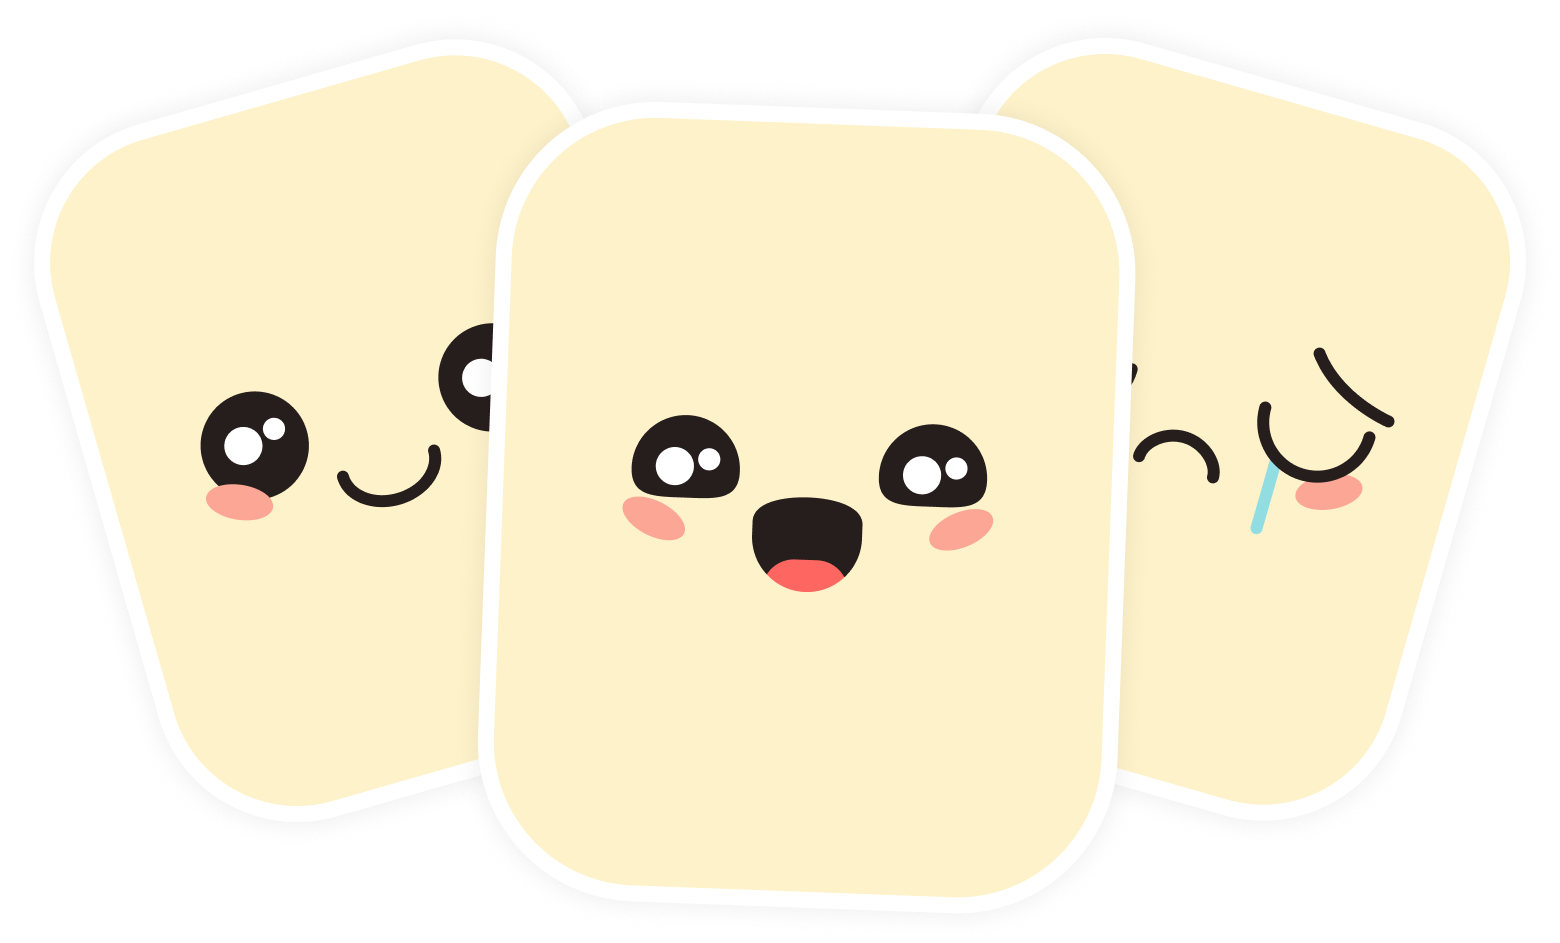
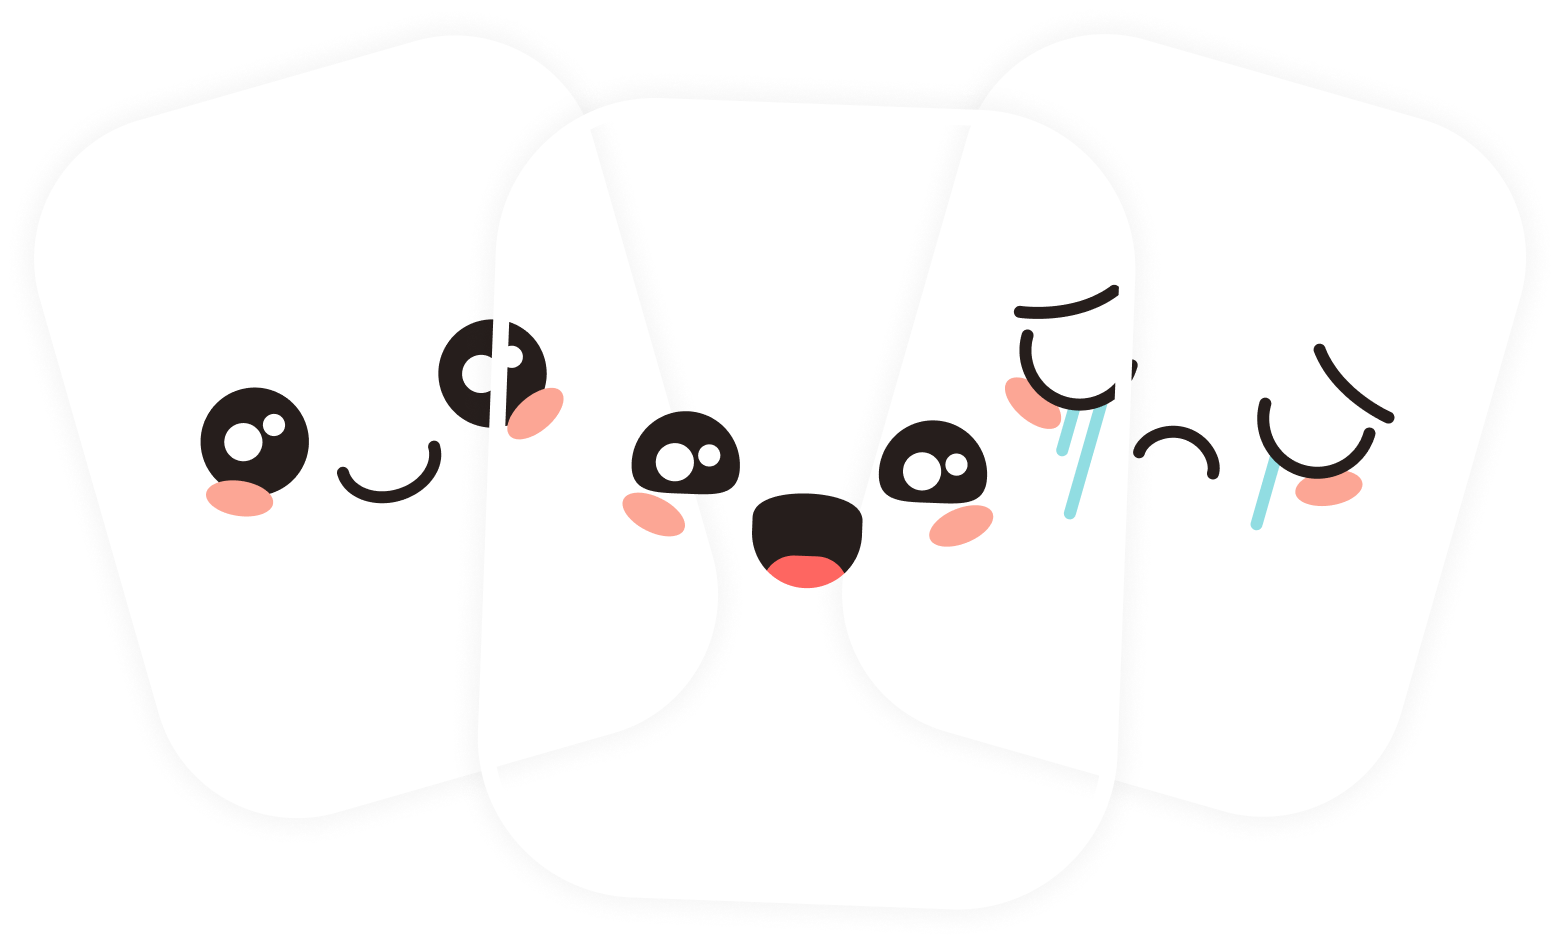
login after the user add his details and change the theme of app

diff --git a/lib/view/screens/auth_Screens/signup_screen.dart b/lib/view/screens/auth_Screens/signup_screen.dart
@@ -30,9 +30,9 @@ class _SignupScreenState extends State<SignupScreen> {
 
   TextEditingController firstNameController = TextEditingController();
   TextEditingController lastNameController = TextEditingController();
-  TextEditingController emailController = TextEditingController();
+  // TextEditingController emailController = TextEditingController();
   TextEditingController passwordController = TextEditingController();
-  TextEditingController confirmPasswordController = TextEditingController();
+  // TextEditingController confirmPasswordController = TextEditingController();
   @override
   Widget build(BuildContext context) => GestureDetector(
         onTap: () => FocusScope.of(context).unfocus(),
@@ -84,7 +84,7 @@ class _SignupScreenState extends State<SignupScreen> {
                             ),
                             getVerticalSpace(2.h),
                             customTextFormField(
-                              emailController,
+                              signUpController.emailController,
                               'Email',
                               prefixIcon:
                                   SvgPicture.asset('assets/svgs/emailicon.svg'),
@@ -102,7 +102,7 @@ class _SignupScreenState extends State<SignupScreen> {
                             ),
                             getVerticalSpace(2.h),
                             customTextFormField(
-                              confirmPasswordController,
+                              signUpController.confirmPasswordController,
                               'Confirmed Password',
                               prefixIcon: SvgPicture.asset(
                                   'assets/svgs/passwordicon.svg'),
@@ -127,15 +127,18 @@ class _SignupScreenState extends State<SignupScreen> {
                                                   firstNameController,
                                               lastNameController:
                                                   lastNameController,
-                                              emailController: emailController,
+                                              emailController: signUpController
+                                                  .emailController,
                                               passwordController:
                                                   passwordController,
                                               confirmPasswordController:
-                                                  confirmPasswordController);
+                                                  signUpController
+                                                      .confirmPasswordController);
                                       if (error.isEmpty) {
                                         signUpController.signUp(
-                                          '${firstNameController.text.trim() + lastNameController.text.trim()}',
-                                          emailController.text.trim(),
+                                          '${firstNameController.text} ${lastNameController.text}',
+                                          signUpController.emailController.text
+                                              .trim(),
                                           passwordController.text.trim(),
                                         );
                                       } else {

diff --git a/lib/controllers/api_services/auth_apis.dart b/lib/controllers/api_services/auth_apis.dart
@@ -21,31 +21,27 @@ class AuthApis {
   AuthApis(this.context);
 
   // login Api
-  Future<bool> loginApi(String email, password) async {
+  Future<void> loginApi(String email, password) async {
     final url = Uri.parse("${BaseUrl.url}/user/auth/login");
     final headers = {"Content-Type": "application/json"};
     final body = jsonEncode({
       "email": email,
       "password": password,
     });
-
     Response response = await post(url, headers: headers, body: body);
     final responseBody = jsonDecode(response.body);
-
     if (responseBody["result"] == true) {
       MySharedPreferences.setString(userIdKey, responseBody["data"]["_id"]);
       log("Login Api Successfully");
-      // customScaffoldMessenger(context, 'Successfully Login');
-      return true; // Login successful
+      customScaffoldMessenger(context, 'Successfully Login');
+      Get.off(() => MyBottomBar());
     } else if (responseBody["result"] ==
         "User already registered against this email.") {
       customScaffoldMessenger(context, 'text');
-      return false; // Login failed
     } else {
       log("login api failed");
       log(responseBody["message"]);
       customScaffoldMessenger(context, responseBody["message"]);
-      return false; // Login failed
     }
   }
 
@@ -64,11 +60,11 @@ class AuthApis {
       log("signUp Api register Successfully");
       customScaffoldMessenger(context, 'Successfully SignUp');
       emailVerifyApi(userEmail);
+      // MySharedPreferences.setString(userIdKey, responseBody["data"]["_id"]);
       Get.to(
         () => OtpScreen(
           email: userEmail,
           type: 'email',
-          password: userPassword,
         ),
       );
     } else {
@@ -103,9 +99,10 @@ class AuthApis {
   }
 
   // email verify Otp api
-  Future<bool> emailVerifyOtpApi(String userOtp, String type) async {
+  Future<void> emailVerifyOtpApi(String userOtp, String type) async {
     final url = Uri.parse("${BaseUrl.url}/user/auth/verifyEmailOtp");
     final headers = {"Content-Type": "application/json"};
+    print("User Id$userId");
     final body = jsonEncode({
       "otp": userOtp,
       "id": MySharedPreferences.getString(userIdKey),
@@ -113,27 +110,23 @@ class AuthApis {
 
     Response response = await post(url, headers: headers, body: body);
     final responseBody = jsonDecode(response.body);
-
     if (responseBody["result"] == true) {
-      log("Otp Verify Successfully");
-
-      if (type == "forgot" || type == "email") {
+      if (type == "forgot") {
+        Get.to(() => const CreateNewPassword());
+      } else if (type == "email") {
         Get.to(() => const CreateNewPassword());
       }
-
+      log("Otp Verify Successfully");
       if (MySharedPreferences.getBool('userData') == true) {
-        Get.off(() => ProgressBarScreen());
+        Get.off(() => LoginScreen());
       } else {
         Get.off(() => const ProgressBarScreen());
       }
-
       customScaffoldMessenger(context, 'Otp Verified Successfully');
-      return true; // OTP verification successful
     } else {
       log("Incorrect Otp");
       log(responseBody["message"]);
       customScaffoldMessenger(context, responseBody["message"]);
-      return false; // OTP verification failed
     }
   }
 

diff --git a/lib/view/screens/checkin_screens/set_goals.dart b/lib/view/screens/checkin_screens/set_goals.dart
@@ -9,9 +9,11 @@ import 'package:my_journel/controllers/utils/shared_preferences.dart';
 import 'package:permission_handler/permission_handler.dart';
 import 'package:responsive_sizer/responsive_sizer.dart';
 import '../../../controllers/api_services/base_url.dart';
+import '../../../controllers/getx_controller/getallapis_controller.dart';
 import '../../../controllers/utils/app_colors.dart';
 import '../../../controllers/utils/app_styles.dart';
 import '../../../custom_widgets/ui_components.dart';
+import '../../../model/getallposts_model.dart';
 import 'checkin_bar.dart';
 import 'package:path_provider/path_provider.dart';
 import 'package:flutter_sound/flutter_sound.dart';
@@ -109,6 +111,18 @@ class _SetGoalsScreenState extends State<SetGoalsScreen> {
       context: context,
       barrierDismissible: true,
       builder: (BuildContext context) {
+        final GetAllApis getAllPostsController = Get.put(GetAllApis(context));
+        final data = getAllPostsController.getAllPost.value?.data ?? [];
+
+        String contentText;
+
+        if (data.isNotEmpty) {
+          final int lastIndex = data.length - 1;
+          Datum datum = data[lastIndex];
+          contentText = datum.tomorrowDescription.toString();
+        } else {
+          contentText = 'No Goals';
+        }
         return AlertDialog(
           backgroundColor: AppColors.primaryColor,
           contentPadding:
@@ -147,7 +161,8 @@ class _SetGoalsScreenState extends State<SetGoalsScreen> {
                 child: Padding(
                   padding: EdgeInsets.all(16.px),
                   child: Text(
-                    'Lorem ipsum dolor sit amet, consectetur adipiscing elit. Fusce eget urna vel felis sollicitudin euismod. Vestibulum ante ipsum primis in faucibus orci luctus et ultrices posuere cubilia Curae; Proin sit amet nunc quis sapien ultrices facilisis. Integer euismod leo ac urna gravida, sit amet feugiat risus interdum. Morbi a lacus ac purus gravida fermentum. Pellentesque habitant morbi tristique senectus et netus et malesuada fames ac turpis egestas. Nam et sem vel mauris pharetra scelerisque. Suspendisse potenti. Cras sagittis, urna in interdum cursus, magna leo convallis metus, id tempus ex lorem eget libero.',
+                    contentText,
+                    // 'Lorem ipsum dolor sit amet, consectetur adipiscing elit. Fusce eget urna vel felis sollicitudin euismod. Vestibulum ante ipsum primis in faucibus orci luctus et ultrices posuere cubilia Curae; Proin sit amet nunc quis sapien ultrices facilisis. Integer euismod leo ac urna gravida, sit amet feugiat risus interdum. Morbi a lacus ac purus gravida fermentum. Pellentesque habitant morbi tristique senectus et netus et malesuada fames ac turpis egestas. Nam et sem vel mauris pharetra scelerisque. Suspendisse potenti. Cras sagittis, urna in interdum cursus, magna leo convallis metus, id tempus ex lorem eget libero.',
                     style: TextStyle(
                       fontSize: 8.px,
                       fontFamily: 'regular',

diff --git a/lib/controllers/getx_controller/auth_controller.dart b/lib/controllers/getx_controller/auth_controller.dart
@@ -16,21 +16,40 @@ class AuthController extends GetxController {
   RxBool isLoading = false.obs;
   RxBool resendIsLoading = false.obs;
   RxString otp = "".obs;
+  final TextEditingController emailController = TextEditingController();
+  final TextEditingController confirmPasswordController =
+      TextEditingController();
+
+  RxString email = ''.obs;
+  RxString confirmPassword = ''.obs;
+
+  @override
+  void onInit() {
+    super.onInit();
+    // Update RxString values when TextEditingController changes
+    emailController.addListener(() {
+      email.value = emailController.text;
+    });
+    confirmPasswordController.addListener(() {
+      confirmPassword.value = confirmPasswordController.text;
+    });
+  }
+
+  @override
+  void onClose() {
+    // Dispose controllers when not needed
+    emailController.dispose();
+    confirmPasswordController.dispose();
+    super.onClose();
+  }
 
   //login
-  Future<void> login(String? email, String? password) async {
+  Future<void> login(String email, password) async {
     isLoading.value = true;
     try {
-      if (email == null || password == null) {
-        customScaffoldMessenger(context, 'Email and password cannot be null');
-        return;
-      }
-
-      final bool isLoginSuccessful =
-          await AuthApis(context).loginApi(email, password);
-      if (isLoginSuccessful) {}
+      await AuthApis(context).loginApi(email, password);
     } catch (e) {
-      log("Error occurred: $e");
+      log("Error occurred:$e");
     } finally {
       isLoading.value = false;
     }
@@ -62,28 +81,13 @@ class AuthController extends GetxController {
   }
 
   // verifyEmailOtp
-  Future<void> verifyEmailOtp(
-      String? userOtp, String type, String? email, String? password) async {
+  Future<void> verifyEmailOtp(String userOtp, String type) async {
     isLoading.value = true;
     try {
-      if (userOtp == null || userOtp.isEmpty) {
-        customScaffoldMessenger(context, 'OTP cannot be empty');
-        return;
-      }
-
-      final bool isOtpVerified =
-          await AuthApis(context).emailVerifyOtpApi(userOtp, type);
-      if (isOtpVerified) {
-        // If OTP verification is successful, call the login method only if email and password are provided
-        if (email != null && password != null) {
-          await login(email, password);
-        } else {
-          customScaffoldMessenger(
-              context, 'Email and password cannot be null for login');
-        }
-      }
+      await AuthApis(context).emailVerifyOtpApi(userOtp, userId);
     } catch (e) {
-      log("Error occurred: $e");
+      isLoading.value = false;
+      log("Error occurred:$e");
     } finally {
       isLoading.value = false;
     }

diff --git a/lib/view/screens/auth_Screens/otp_screen.dart b/lib/view/screens/auth_Screens/otp_screen.dart
@@ -12,9 +12,7 @@ import 'createNew_Password.dart';
 class OtpScreen extends StatefulWidget {
   final String email;
   final String type;
-  final String? password;
-  const OtpScreen(
-      {super.key, required this.email, required this.type, this.password});
+  const OtpScreen({super.key, required this.email, required this.type});
 
   @override
   State<OtpScreen> createState() => _OtpScreenState();
@@ -37,7 +35,6 @@ class _OtpScreenState extends State<OtpScreen> {
     // Provide a default value if Get.arguments is null
     final arguments = Get.arguments ?? {};
     final userEmail = arguments['userEmail'] ?? widget.email;
-    final userPassword = arguments['userPassword'] ?? widget.password;
 
     return Scaffold(
       resizeToAvoidBottomInset: false,
@@ -108,7 +105,9 @@ class _OtpScreenState extends State<OtpScreen> {
                           if (otp.length == 4) {
                             if (widget.type.toString() == "email") {
                               controller.verifyEmailOtp(
-                                  otp, widget.type, userEmail, userPassword);
+                                otp,
+                                widget.type,
+                              );
                             } else {
                               controller.verifyPasswordOtp(otp, widget.type);
                             }

diff --git a/lib/controllers/api_services/user_details_apis.dart b/lib/controllers/api_services/user_details_apis.dart
@@ -12,13 +12,22 @@ import '../../model/elevates_model.dart';
 import '../../model/goals_model.dart';
 import '../../model/motivation_model.dart';
 import '../../view/screens/auth_Screens/login_screen.dart';
+import '../getx_controller/auth_controller.dart';
 import 'base_url.dart';
 import 'package:http/http.dart';
 import 'package:http/http.dart' as http;
 
 class UserDetail {
   final BuildContext context;
-  UserDetail(this.context);
+  late final AuthController authController;
+
+  UserDetail(this.context) {
+    _initAuthController();
+  }
+
+  void _initAuthController() {
+    authController = Get.put(AuthController(context));
+  }
 
   Future<Temperatures?> userGoals() async {
     final uri = Uri.parse("${BaseUrl.url}/goals/getAll");
@@ -110,7 +119,9 @@ class UserDetail {
           responseData['message'] == "Successfully, Update User") {
         // final prefs = await SharedPreferences.getInstance();
         MySharedPreferences.setBool('userData', true);
-        Get.off(() => MyBottomBar());
+        // Get.off(() => LoginScreen());
+        await authController.login(
+            authController.email.value, authController.confirmPassword.value);
         print('User details updated successfully');
         customScaffoldMessenger(context, "your Data is Updated");
       } else {

diff --git a/lib/view/screens/user_details/statement_below_screen.dart b/lib/view/screens/user_details/statement_below_screen.dart
@@ -1,8 +1,11 @@
+import 'dart:developer';
+
 import 'package:flutter/foundation.dart';
 import 'package:flutter/material.dart';
 import 'package:flutter_svg/flutter_svg.dart';
 import 'package:get/get.dart';
 import 'package:loading_animation_widget/loading_animation_widget.dart';
+import 'package:my_journel/controllers/getx_controller/auth_controller.dart';
 import 'package:my_journel/controllers/utils/app_colors.dart';
 import 'package:my_journel/controllers/utils/app_styles.dart';
 import 'package:my_journel/view/screens/auth_Screens/login_screen.dart';
@@ -21,6 +24,9 @@ class StatementBelowScreen extends StatelessWidget {
   Widget build(BuildContext context) {
     final UserDetailController userDetailController =
         Get.put(UserDetailController(context));
+    final AuthController authController = Get.put(AuthController(context));
+    log('email: ${authController.email.value}');
+    log('password: ${authController.confirmPassword.value}');
     return SafeArea(
       child: Padding(
         padding: EdgeInsets.symmetric(horizontal: 5.h, vertical: 2.h),

diff --git a/lib/view/screens/welcome_screen.dart b/lib/view/screens/welcome_screen.dart
@@ -14,7 +14,7 @@ class WelcomeScreen extends StatelessWidget {
   @override
   Widget build(BuildContext context) {
     return Scaffold(
-      backgroundColor: AppColors.primaryColor,
+      backgroundColor: AppColors.whiteColor,
       body: Column(
         children: [
           SizedBox(
